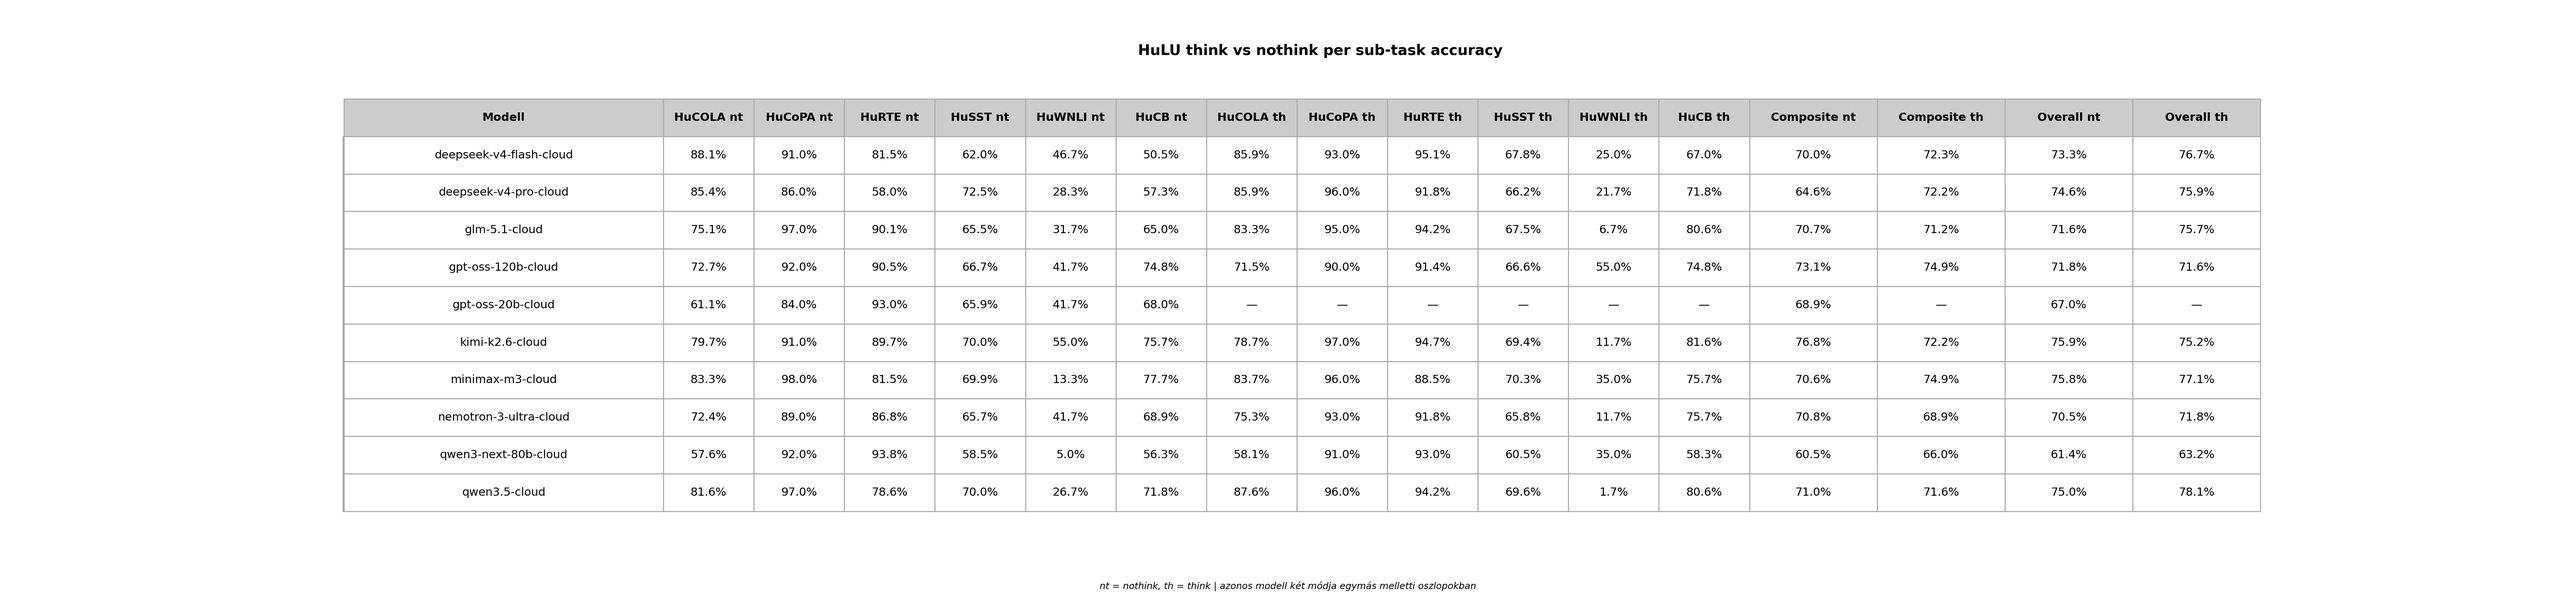
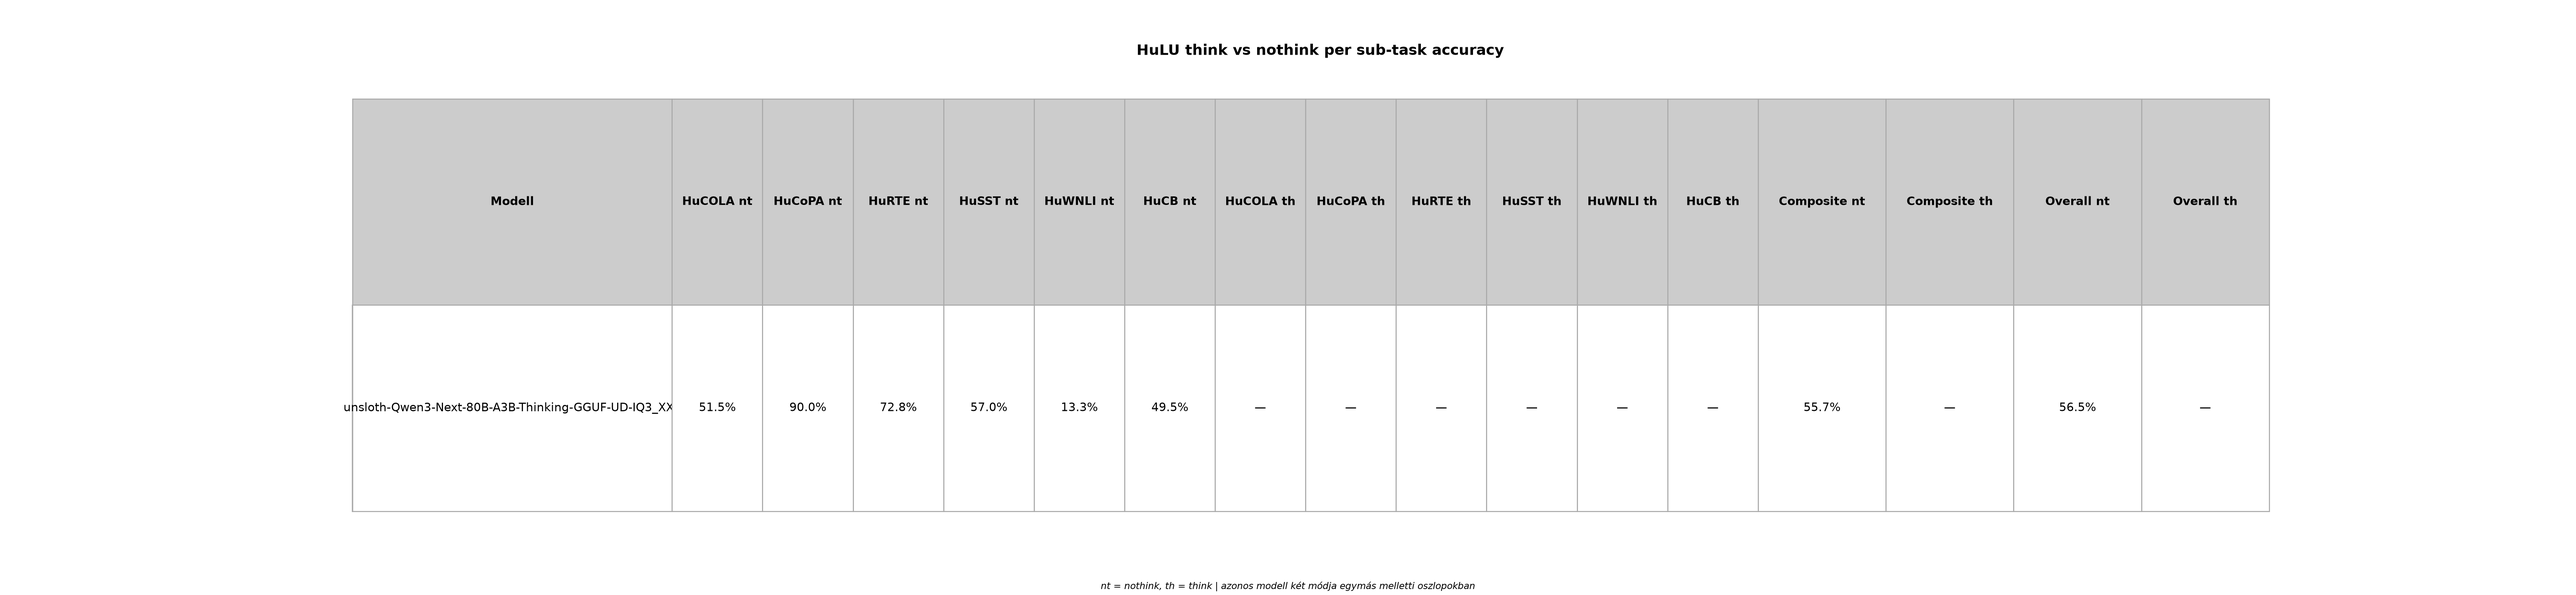
Reports frissítve: baseline-szerű report.md (1 modell, think mód), hulu_breakdown.csv kiegészítve az unsloth modellel, heatmap + breakdown chart-ok újragenerálva.

diff --git a/reports/hulu_breakdown.md b/reports/hulu_breakdown.md
@@ -1,8 +1,8 @@
 # HuLU Per-Sub-Task Bontás
 
-*Generálva:* 2026-06-16T06:46:00.962882+00:00
+*Generálva:* 2026-07-25T08:21:30.388249+00:00
 
-*19 benchmark (egyedi rekord: utolsó előfordulás alapján).*
+*1 benchmark (egyedi rekord: utolsó előfordulás alapján).*
 
 ## Módszer
 
@@ -17,16 +17,7 @@ A `results/{model}-{mode}/hulu_results.jsonl` fájlokból csoportosítunk a `tas
 
 | Modell | HuCOLA nt | HuCoPA nt | HuRTE nt | HuSST nt | HuWNLI nt | HuCB nt | HuCOLA th | HuCoPA th | HuRTE th | HuSST th | HuWNLI th | HuCB th | Composite nt | Composite th | Overall nt | Overall th |
 |---|---|---|---|---|---|---|---|---|---|---|---|---|---|---|---|---|
-| **deepseek-v4-flash-cloud** | 88.1% | 91.0% | 81.5% | 62.0% | 46.7% | 50.5% | 85.9% | 93.0% | 95.1% | 67.8% | 25.0% | 67.0% | 70.0% | 72.3% | 73.3% | 76.7% |
-| **deepseek-v4-pro-cloud** | 85.4% | 86.0% | 58.0% | 72.5% | 28.3% | 57.3% | 85.9% | 96.0% | 91.8% | 66.2% | 21.7% | 71.8% | 64.6% | 72.2% | 74.6% | 75.9% |
-| **glm-5.1-cloud** | 75.1% | 97.0% | 90.1% | 65.5% | 31.7% | 65.0% | 83.3% | 95.0% | 94.2% | 67.5% | 6.7% | 80.6% | 70.7% | 71.2% | 71.6% | 75.7% |
-| **gpt-oss-120b-cloud** | 72.7% | 92.0% | 90.5% | 66.7% | 41.7% | 74.8% | 71.5% | 90.0% | 91.4% | 66.6% | 55.0% | 74.8% | 73.1% | 74.9% | 71.8% | 71.6% |
-| **gpt-oss-20b-cloud** | 61.1% | 84.0% | 93.0% | 65.9% | 41.7% | 68.0% | — | — | — | — | — | — | 68.9% | — | 67.0% | — |
-| **kimi-k2.6-cloud** | 79.7% | 91.0% | 89.7% | 70.0% | 55.0% | 75.7% | 78.7% | 97.0% | 94.7% | 69.4% | 11.7% | 81.6% | 76.8% | 72.2% | 75.9% | 75.2% |
-| **minimax-m3-cloud** | 83.3% | 98.0% | 81.5% | 69.9% | 13.3% | 77.7% | 83.7% | 96.0% | 88.5% | 70.3% | 35.0% | 75.7% | 70.6% | 74.9% | 75.8% | 77.1% |
-| **nemotron-3-ultra-cloud** | 72.4% | 89.0% | 86.8% | 65.7% | 41.7% | 68.9% | 75.3% | 93.0% | 91.8% | 65.8% | 11.7% | 75.7% | 70.8% | 68.9% | 70.5% | 71.8% |
-| **qwen3-next-80b-cloud** | 57.6% | 92.0% | 93.8% | 58.5% | 5.0% | 56.3% | 58.1% | 91.0% | 93.0% | 60.5% | 35.0% | 58.3% | 60.5% | 66.0% | 61.4% | 63.2% |
-| **qwen3.5-cloud** | 81.6% | 97.0% | 78.6% | 70.0% | 26.7% | 71.8% | 87.6% | 96.0% | 94.2% | 69.6% | 1.7% | 80.6% | 71.0% | 71.6% | 75.0% | 78.1% |
+| **unsloth-Qwen3-Next-80B-A3B-Thinking-GGUF-UD-IQ3_XXS** | 51.5% | 90.0% | 72.8% | 57.0% | 13.3% | 49.5% | — | — | — | — | — | — | 55.7% | — | 56.5% | — |
 
 ## Táblázat — per sub-task (accuracy %)
 
@@ -34,22 +25,4 @@ A `results/{model}-{mode}/hulu_results.jsonl` fájlokból csoportosítunk a `tas
 
 | Modell (mód) | HuCOLA | HuCoPA | HuRTE | HuSST | HuWNLI | HuCB | Composite | Overall |
 |---|---|---|---|---|---|---|---|---|
-| **kimi-k2.6-cloud (nothink)** | 79.7% (n=910) | 91.0% (n=100) | 89.7% (n=243) | 70.0% (n=1165) | 55.0% (n=60) | 75.7% (n=103) | **76.8%** | 75.9% |
-| **gpt-oss-120b-cloud (think)** | 71.5% (n=910) | 90.0% (n=100) | 91.4% (n=243) | 66.6% (n=1165) | 55.0% (n=60) | 74.8% (n=103) | **74.9%** | 71.6% |
-| **minimax-m3-cloud (think)** | 83.7% (n=910) | 96.0% (n=100) | 88.5% (n=243) | 70.3% (n=1165) | 35.0% (n=60) | 75.7% (n=103) | **74.9%** | 77.1% |
-| **gpt-oss-120b-cloud (nothink)** | 72.7% (n=910) | 92.0% (n=100) | 90.5% (n=243) | 66.7% (n=1165) | 41.7% (n=60) | 74.8% (n=103) | **73.1%** | 71.8% |
-| **deepseek-v4-flash-cloud (think)** | 85.9% (n=910) | 93.0% (n=100) | 95.1% (n=243) | 67.8% (n=1165) | 25.0% (n=60) | 67.0% (n=103) | **72.3%** | 76.7% |
-| **deepseek-v4-pro-cloud (think)** | 85.9% (n=910) | 96.0% (n=100) | 91.8% (n=243) | 66.2% (n=1165) | 21.7% (n=60) | 71.8% (n=103) | **72.2%** | 75.9% |
-| **kimi-k2.6-cloud (think)** | 78.7% (n=910) | 97.0% (n=100) | 94.7% (n=243) | 69.4% (n=1165) | 11.7% (n=60) | 81.6% (n=103) | **72.2%** | 75.2% |
-| **qwen3.5-cloud (think)** | 87.6% (n=910) | 96.0% (n=100) | 94.2% (n=243) | 69.6% (n=1165) | 1.7% (n=60) | 80.6% (n=103) | **71.6%** | 78.1% |
-| **glm-5.1-cloud (think)** | 83.3% (n=910) | 95.0% (n=100) | 94.2% (n=243) | 67.5% (n=1165) | 6.7% (n=60) | 80.6% (n=103) | **71.2%** | 75.7% |
-| **qwen3.5-cloud (nothink)** | 81.6% (n=910) | 97.0% (n=100) | 78.6% (n=243) | 70.0% (n=1165) | 26.7% (n=60) | 71.8% (n=103) | **71.0%** | 75.0% |
-| **nemotron-3-ultra-cloud (nothink)** | 72.4% (n=910) | 89.0% (n=100) | 86.8% (n=243) | 65.7% (n=1165) | 41.7% (n=60) | 68.9% (n=103) | **70.8%** | 70.5% |
-| **glm-5.1-cloud (nothink)** | 75.1% (n=910) | 97.0% (n=100) | 90.1% (n=243) | 65.5% (n=1165) | 31.7% (n=60) | 65.0% (n=103) | **70.7%** | 71.6% |
-| **minimax-m3-cloud (nothink)** | 83.3% (n=910) | 98.0% (n=100) | 81.5% (n=243) | 69.9% (n=1165) | 13.3% (n=60) | 77.7% (n=103) | **70.6%** | 75.8% |
-| **deepseek-v4-flash-cloud (nothink)** | 88.1% (n=910) | 91.0% (n=100) | 81.5% (n=243) | 62.0% (n=1165) | 46.7% (n=60) | 50.5% (n=103) | **70.0%** | 73.3% |
-| **gpt-oss-20b-cloud (nothink)** | 61.1% (n=910) | 84.0% (n=100) | 93.0% (n=243) | 65.9% (n=1165) | 41.7% (n=60) | 68.0% (n=103) | **68.9%** | 67.0% |
-| **nemotron-3-ultra-cloud (think)** | 75.3% (n=910) | 93.0% (n=100) | 91.8% (n=243) | 65.8% (n=1165) | 11.7% (n=60) | 75.7% (n=103) | **68.9%** | 71.8% |
-| **qwen3-next-80b-cloud (think)** | 58.1% (n=910) | 91.0% (n=100) | 93.0% (n=243) | 60.5% (n=1165) | 35.0% (n=60) | 58.3% (n=103) | **66.0%** | 63.2% |
-| **deepseek-v4-pro-cloud (nothink)** | 85.4% (n=910) | 86.0% (n=100) | 58.0% (n=243) | 72.5% (n=1165) | 28.3% (n=60) | 57.3% (n=103) | **64.6%** | 74.6% |
-| **qwen3-next-80b-cloud (nothink)** | 57.6% (n=910) | 92.0% (n=100) | 93.8% (n=243) | 58.5% (n=1165) | 5.0% (n=60) | 56.3% (n=103) | **60.5%** | 61.4% |
+| **unsloth-Qwen3-Next-80B-A3B-Thinking-GGUF-UD-IQ3_XXS (nothink)** | 51.5% (n=910) | 90.0% (n=100) | 72.8% (n=243) | 57.0% (n=1165) | 13.3% (n=60) | 49.5% (n=103) | **55.7%** | 56.5% |

diff --git a/reports/report.md b/reports/report.md
@@ -1,15 +1,118 @@
-# Modell Értékelési Riport
+# Modell Értékelési Riport — 2026-07-25
 
-*Generálva:* 2026-07-25T07:13:06.190074+00:00
+*Generálva:* 2026-07-25
 
-## Composite Score (súlyok: stat=0.4, gen=0.4, ling=0.2)
+---
 
-| Modell | hugme | hulu | mt_bench_hu | mmlu_hu | Composite |
-|---|---|---|---|---|---|
-| **unsloth-Qwen3-Next-80B-A3B-Thinking-GGUF-UD-IQ3_XXS-nothink** | 0.828 | 0.565 | 0.375 | 0.869 | **0.659** |
-| **deepseek-v4-flash-cloud-nothink** | — | — | — | — | — |
-| **deepseek-v4-flash-cloud-think** | — | — | — | — | — |
+## Executive Summary
+
+Ez a riport az egyetlen jelenleg elérhető lokális modell, az `unsloth/Qwen3-Next-80B-A3B-Thinking-GGUF:UD-IQ3_XXS` (IQ3_XXS kvantálás, llama-server backend) eredményeit tartalmazza. A modell **csak think módban fut** — a llama-server `reasoning_format: none` ellenére minden promptnál gondolkodik; nincs külön nothink mód.
+
+A modell az MMLU-HU benchmarkon kiemelkedő (86.87%), a HuGME-n jó (0.828), a HuLU-n közepes (56.53%), az MT-Bench-HU-n gyenge (37.50%) teljesítményt nyújtott. Az UD Hungarian az eredeti 16K kontextussal nem volt értékelhető.
+
+### Főbb számok
+
+- **Composite score (40/40/20, LING N/A → 50/50):** 65.93%
+- **HuLU (6 NLU sub-task):** 56.53% (1459/2581)
+- **MMLU-HU (38 tantárgy, 5-shot):** 86.87% (1303/1500)
+- **HuGME (LLM-as-a-Judge):** 82.83% (300/300)
+- **MT-Bench-HU (vs deepseek-v4-flash:cloud):** 37.50% (1W/7L/16T)
+- **UD Hungarian:** N/A (16K kontextus; 64K-on már produkál CoNLL-U-t)
+
+---
+
+## Composite Score
+
+**Súlyok:** stat=0.4, gen=0.4, ling=0.2 (AGENTS.md kötelező). LING hiányában 50/50 STAT/GEN.
+
+| Modell | Mód | HuLU | MMLU-HU | HuGME | MT-Bench-HU | UD | STAT | GEN | LING | **Composite** |
+|--------|-----|-----:|--------:|------:|------------:|---:|-----:|----:|-----:|--------------:|
+| Qwen3-Next-80B IQ3_XXS | think | 56.53% | 86.87% | 82.83% | 37.50% | N/A | **71.70%** | **60.17%** | N/A | **65.93%** |
+
+**Átlag (3 benchmark):** HuLU + MMLU-HU + HuGME átlaga = **(56.53% + 86.87% + 82.83%) / 3 = 75.41%**
+
+---
+
+## Per-benchmark eredmények
+
+### HuLU — 6 NLU sub-task (statisztikai)
+
+**Mit tesztel:** magyar nyelvű NLU 6 al-benchmarkon: nyelvtani elfogadhatóság (HuCOLA), ok-okozat (HuCoPA), szöveg-entailment (HuRTE), szentiment (HuSST), lexicalis következtetés (HuWNLI), CommitmentBank (HuCB).
+
+| Mód | Overall pontosság |
+|-----|------------------:|
+| think | **56.53%** (1459/2581) |
+
+| Sub-task | Pontosság |
+|----------|----------:|
+| HuCOLA | 51.54% |
+| HuCoPA | **90.00%** |
+| HuRTE | 72.84% |
+| HuSST | 57.00% |
+| HuWNLI | **13.33%** |
+| HuCB | 49.51% |
+
+**Megfigyelések:**
+- HuCoPA (90.0%) kiemelkedő — a CoT jól segíti az ok-okozat felismerést
+- HuWNLI (13.3%) random guess szint — a modell nem érti a lexicalis következtetést magyarul
+- HuCB (49.5%) szintén random guess
+
+### MMLU-HU — 38 tantárgy, 5-shot (statisztikai)
+
+**Mit tesztel:** többválasztós tantárgy-specifikus tudás 38 magyar tantárgyban.
+
+| Mód | Pontosság |
+|-----|----------:|
+| think | **86.87%** (1303/1500) |
+
+### HuGME — Generatív, LLM-as-a-Judge (generatív)
+
+**Mit tesztel:** nyílt generatív válaszok minősége 6 metrikán (relevance, coherence, fluency, informativeness, harmlessness, overall), 300 item.
+
+| Mód | Score | Judged |
+|-----|------:|:-------|
+| think | **0.828** | 300/300 |
+| Judge | `deepseek-v4-pro:cloud` | — |
+
+### MT-Bench-HU — GSB multi-baseline (generatív)
+
+**Mit tesztel:** 2-turn párbeszéd, 24 item, baseline: deepseek-v4-flash:cloud.
+
+| Mód | Score | W/L/T |
+|-----|------:|:------|
+| think | **37.50%** | 1W / 7L / 16T |
+| Judge | `deepseek-v4-pro:cloud` | — |
+
+### UD Hungarian — CoNLL-U, UPOS/UAS/LAS (nyelvészeti)
+
+**Mit tesztel:** magyar mondatok nyelvtani elemzése Universal Dependencies szerint.
+
+| Mód | Composite | UPOS | UAS | LAS |
+|-----|:---------:|:----:|:---:|:---:|
+| think (16K ctx) | **N/A** | N/A | N/A | N/A |
+| think (64K ctx) | tesztelés alatt | — | — | — |
+
+---
 
 ## Heatmap
 
 ![Heatmap](results_heatmap.png)
+
+---
+
+## Figyelemre méltó eredmények
+
+- **MMLU-HU 86.87%** erős a 3.06 bpw kvantáláshoz képest
+- **MT-Bench-HU 37.50%** magas döntetlen-arány (66.7%) — a bíró nehezen különbözteti meg a kvantált modellt a cloud baseline-tól
+- **UD Hungarian** 64K kontextussal már produkál CoNLL-U kimenetet, de a prompt pontosítása folyamatban van
+
+## Limitációk
+
+- **Nincs nothink mód** — a modell minden promptnál gondolkodik
+- 1 modell × 1 mód — nincs összehasonlítási alap
+- UD Hungarian még nem teljes
+- A `num_predict=4096` néha kevés a CoT + válasz kombinációnak
+
+---
+
+*Composite score formula: STAT 40% + GEN 40% + LING 20%. Mivel LING N/A, 50/50. Részletek: [wiki riport](../wiki/reports/report-2026-07-25-lokalis-qwen3-next.md)*
